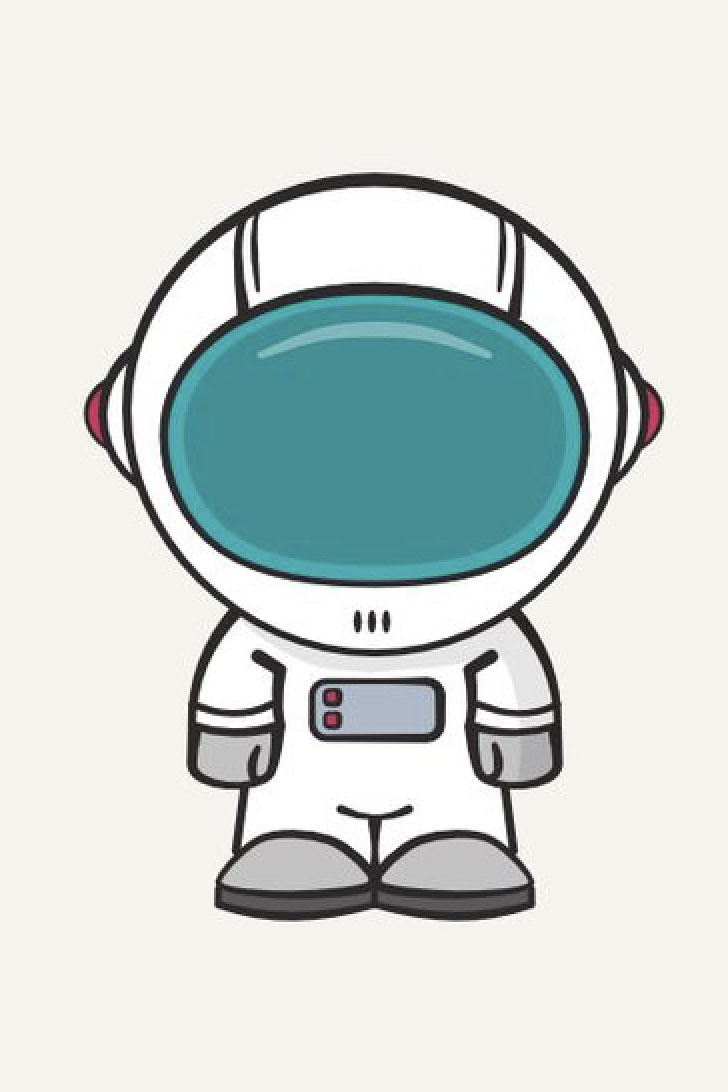
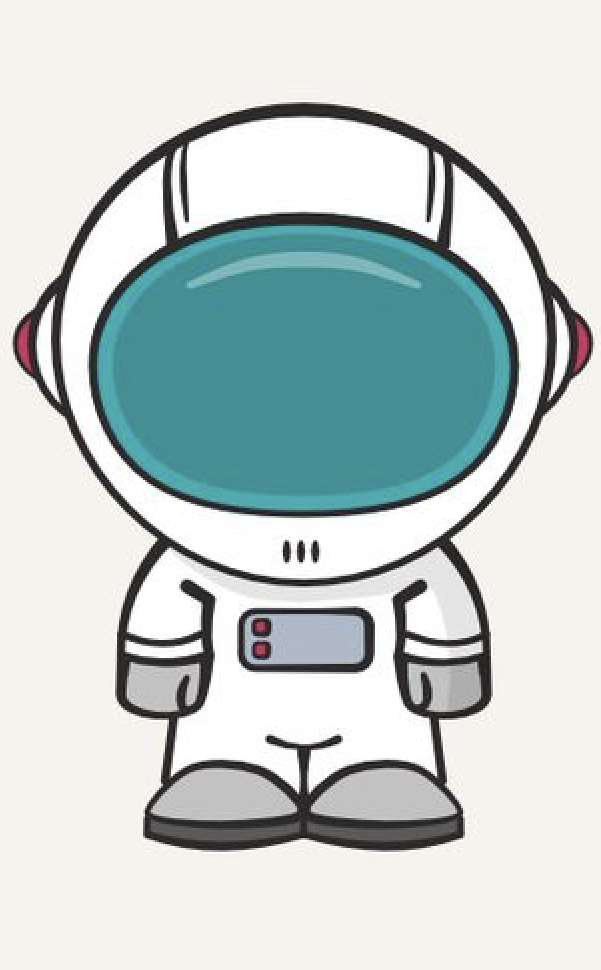
space pic

Changed region(s): [[0.0, 0.0928, 0.9884, 0.8969]]

diff --git a/style.css b/style.css
@@ -11,21 +11,31 @@ background-size: cover;
 background: url('https://images.unsplash.com/photo-1621198777376-d776b7725a93?ixlib=rb-4.0.3&ixid=M3wxMjA3fDB8MHxwaG90by1wYWdlfHx8fGVufDB8fHx8fA%3D%3D&auto=format&fit=crop&w=3135&q=80'); 
 }
 
+main * {
+    display: flex;
+    justify-content: center;
+    align-items: center;
+    grid-template-columns: 35vmin 15vmin 35vmin;
+    grid-template-rows: 10vmin 10vmin 35vmin 15vmin;
+    }
+
 main {
 display: grid;
 }
 
 p {
-color: #FFFFFF;
+color: #E2843E;
 }
 
-main * {
+.flex-ctr {
 display: flex;
 justify-content: center;
 align-items: center;
 }
 
-.flex-ctr {
+img {
+height: 65vmin;
+width: 60vmin;
 display: flex;
 justify-content: center;
 align-items: center;

diff --git a/index.html b/index.html
@@ -47,7 +47,7 @@
 </div>
 <p id="mylives"></p>
 <p id="clue">Clue -</p> 
-<img width="500vmin" height="500vmin" src="imgs/Spaceman.png"><br>
+<img src="imgs/Spaceman.png"><br>
 <div class="container">
 <button id="hint">Hint</button>
 <button id="reset">Play again</button>
